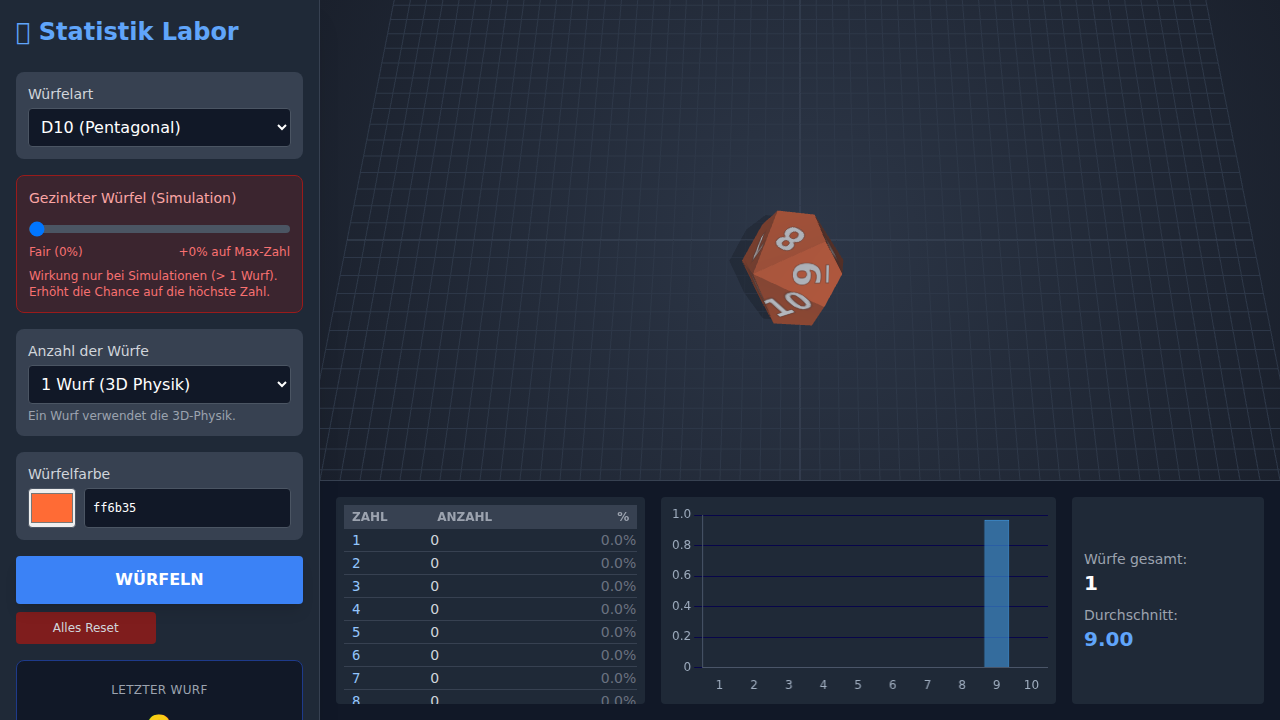
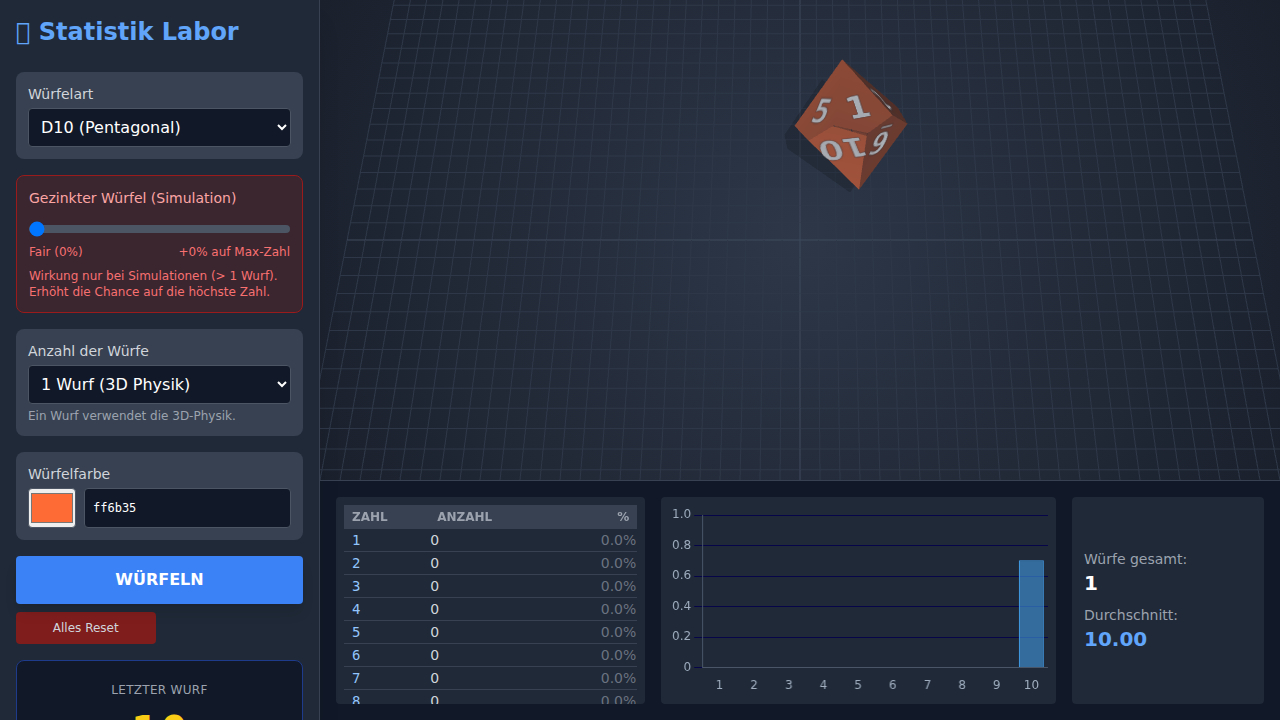
Fix biased random rotation logic in roll function
Updated the angular velocity calculation to use a centered random distribution `(Math.random() - 0.5) * 40`.
This ensures the dice can rotate in any direction (positive or negative) around the X, Y, and Z axes,
addressing the issue where rotation was previously only in the positive direction.

diff --git a/index.html b/index.html
@@ -785,7 +785,7 @@
                     new CANNON.Vec3(0,0,0) // Wirkt im Zentrum
                 );
                 // Zusätzlicher Drehimpuls
-                this.diceBody.angularVelocity.set(Math.random()*20, Math.random()*20, Math.random()*20);
+                this.diceBody.angularVelocity.set((Math.random()-0.5)*40, (Math.random()-0.5)*40, (Math.random()-0.5)*40);
                 this.diceBody.wakeUp();
             }
 

diff --git a/verification/check_spin.py b/verification/check_spin.py
@@ -1,0 +1,21 @@
+from playwright.sync_api import sync_playwright
+
+def verify_spin():
+    with sync_playwright() as p:
+        browser = p.chromium.launch(headless=True)
+        page = browser.new_page()
+        page.goto("http://localhost:3000")
+
+        # Click roll
+        page.click("button#btnRoll")
+
+        # Wait a bit for spin to happen
+        page.wait_for_timeout(1000)
+
+        # Take screenshot
+        page.screenshot(path="verification/spin_check.png")
+
+        browser.close()
+
+if __name__ == "__main__":
+    verify_spin()
